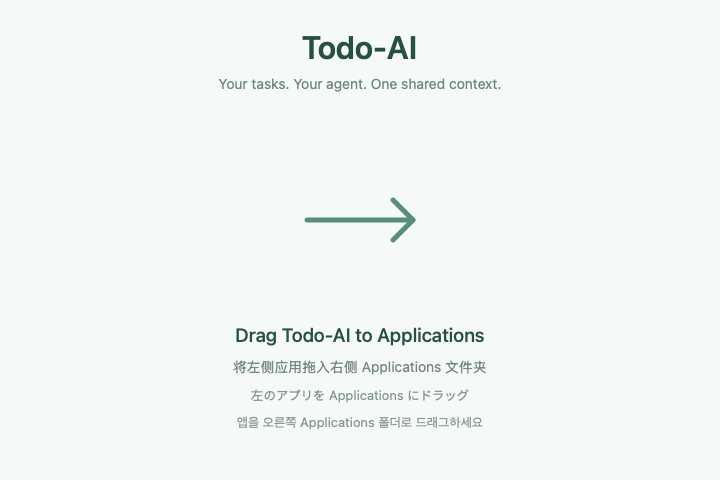
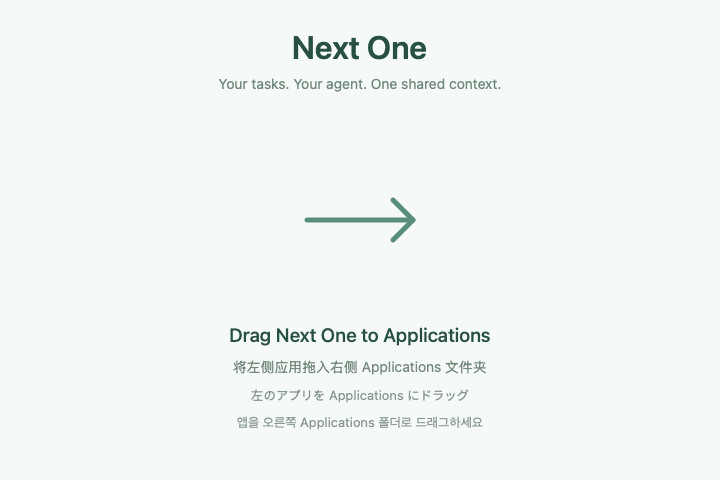
Rename product to Next One and update repository references

Changed region(s): [[0.3972, 0.0625, 0.6111, 0.125], [0.3056, 0.6875, 0.7028, 0.7188]]

diff --git a/Sources/TodoApp/Windows.swift b/Sources/TodoApp/Windows.swift
@@ -36,12 +36,12 @@ final class TaskPanel: NSPanel {
             model.collapsed = Set(p["collapsed"] as? [String] ?? [])
         }
         for window in [panel, ball] { window.isOpaque = false; window.backgroundColor = .clear; window.hasShadow = true; window.hidesOnDeactivate = false; window.isReleasedWhenClosed = false }
-        panel.title = L("Todo-AI 清单"); ball.title = L("Todo-AI 悬浮球")
+        panel.title = L("Next One 清单"); ball.title = L("Next One 悬浮球")
         panel.contentView = TodoHostingView(rootView: ContentView(model: model))
         let ballView = BallView(); ballView.controller = self; ball.contentView = ballView
         model.window = self
         statusItem = NSStatusBar.system.statusItem(withLength: NSStatusItem.squareLength)
-        statusItem.button?.image = NSImage(systemSymbolName: "paperclip", accessibilityDescription: "Todo-AI")
+        statusItem.button?.image = NSImage(systemSymbolName: "paperclip", accessibilityDescription: "Next One")
         statusItem.button?.target = self; statusItem.button?.action = #selector(showMenu)
         refreshLanguage()
         NotificationCenter.default.addObserver(self, selector: #selector(refreshLanguage), name: .todoLanguageChanged, object: nil)
@@ -55,7 +55,7 @@ final class TaskPanel: NSPanel {
     }
     @objc func systemLanguageChanged() { LanguageSettings.shared.refreshSystemLanguage() }
     @objc func refreshLanguage() {
-        panel.title = L("Todo-AI 清单"); ball.title = L("Todo-AI 悬浮球")
+        panel.title = L("Next One 清单"); ball.title = L("Next One 悬浮球")
         (ball.contentView as? BallView)?.refreshLanguage()
         rebuildMainMenu(target: self)
     }
@@ -179,7 +179,7 @@ struct HeaderDragArea: NSViewRepresentable {
     override func keyDown(with event: NSEvent) { if event.keyCode == 49 || event.keyCode == 36 { controller?.toggle() } else { super.keyDown(with: event) } }
     override init(frame frameRect: NSRect) { super.init(frame: frameRect); setAccessibilityElement(true); setAccessibilityRole(.button); refreshLanguage() }
     func refreshLanguage() {
-        setAccessibilityLabel(L("Todo-AI 悬浮球，单击展开或收起，右键解锁"))
+        setAccessibilityLabel(L("Next One 悬浮球，单击展开或收起，右键解锁"))
         toolTip = L("单击展开/收起 · 拖动移动 · 右键解锁")
     }
     required init?(coder: NSCoder) { fatalError() }

diff --git a/Sources/TodoApp/main.swift b/Sources/TodoApp/main.swift
@@ -11,7 +11,7 @@ import TodoCore
             controller = FloatingController(model: model)
             for item in NSApp.mainMenu?.items.first?.submenu?.items ?? [] { item.target = controller }
         }
-        catch { let alert = NSAlert(); alert.messageText = L("Todo-AI 无法打开"); alert.informativeText = LanguageSettings.shared.describe(error); alert.runModal(); NSApp.terminate(nil) }
+        catch { let alert = NSAlert(); alert.messageText = L("Next One 无法打开"); alert.informativeText = LanguageSettings.shared.describe(error); alert.runModal(); NSApp.terminate(nil) }
     }
     func applicationShouldTerminate(_ sender: NSApplication) -> NSApplication.TerminateReply {
         guard controller?.model.saveDraft() != false else { return .terminateCancel }
@@ -30,8 +30,8 @@ app.run()
 
 @MainActor func rebuildMainMenu(target: AnyObject?) {
 let menu = NSMenu()
-let appRoot = NSMenuItem(); let appMenu = NSMenu(title: "TodoAI"); appRoot.submenu = appMenu; menu.addItem(appRoot)
-for (title, action, key) in [(L("找回悬浮球"), "revealBall", "b"), (L("展开或收起清单"), "toggleAction", "t"), (L("设置…"), "settingsAction", ","), (L("退出 TodoAI"), "quitAction", "q")] {
+let appRoot = NSMenuItem(); let appMenu = NSMenu(title: "Next One"); appRoot.submenu = appMenu; menu.addItem(appRoot)
+for (title, action, key) in [(L("找回悬浮球"), "revealBall", "b"), (L("展开或收起清单"), "toggleAction", "t"), (L("设置…"), "settingsAction", ","), (L("退出 Next One"), "quitAction", "q")] {
     let item = appMenu.addItem(withTitle: title, action: Selector(action), keyEquivalent: key)
     item.target = target
 }

diff --git a/scripts/distribution/render-assets.swift b/scripts/distribution/render-assets.swift
@@ -49,12 +49,12 @@ for scale in [1, 2] {
     let suffix = scale == 2 ? "@2x" : ""
     try render("installer-background\(suffix).png",width: 720,height: 480,scale: scale) {
         color(0.95, 0.97, 0.96).setFill(); NSRect(x: 0,y: 0,width: 720,height: 480).fill()
-        text("Todo-AI",top: 32,size: 32,ink: color(0.12,0.25,0.20),weight: .semibold)
+        text("Next One",top: 32,size: 32,ink: color(0.12,0.25,0.20),weight: .semibold)
         text("Your tasks. Your agent. One shared context.",top: 79,size: 14,ink: color(0.36,0.46,0.40))
         let ink = color(0.28,0.49,0.40)
         stroke([NSPoint(x: 307,y: 260),NSPoint(x: 413,y: 260)],width: 5,ink: ink)
         stroke([NSPoint(x: 393,y: 280),NSPoint(x: 413,y: 260),NSPoint(x: 393,y: 240)],width: 5,ink: ink)
-        text("Drag Todo-AI to Applications",top: 328,size: 19,ink: color(0.12,0.25,0.20),weight: .medium)
+        text("Drag Next One to Applications",top: 328,size: 19,ink: color(0.12,0.25,0.20),weight: .medium)
         text("将左侧应用拖入右侧 Applications 文件夹",top: 362,size: 14,ink: color(0.38,0.46,0.41))
         text("左のアプリを Applications にドラッグ",top: 391,size: 13,ink: color(0.45,0.52,0.48))
         text("앱을 오른쪽 Applications 폴더로 드래그하세요",top: 418,size: 13,ink: color(0.45,0.52,0.48))

diff --git a/Sources/TodoApp/CodexIntegration.swift b/Sources/TodoApp/CodexIntegration.swift
@@ -15,7 +15,7 @@ struct CodexIntegration {
         guard fm.isExecutableFile(atPath: sourceCLI.path),
               fm.isReadableFile(atPath: sourceSkill.appendingPathComponent("SKILL.md").path),
               fm.isReadableFile(atPath: sourceSkill.appendingPathComponent("references/cli.md").path) else {
-            throw IntegrationError("应用包缺少接入文件，请重新构建或安装完整的 Todo-AI 应用。")
+            throw IntegrationError("应用包缺少接入文件，请重新构建或安装完整的 Next One 应用。")
         }
         var files: [(String, URL)] = [("bin/todo", sourceCLI)]
         for relative in try fm.subpathsOfDirectory(atPath: sourceSkill.path) {
@@ -76,7 +76,7 @@ struct CodexIntegration {
 
     func installPrompt(dataDirectory: URL, language: String = "zh-Hans") -> String {
         Localization.text("""
-        请在这台 Mac 上为我安装并使用 Todo-AI Skill，让你能通过本地接口读取、新增、修改、完成、可恢复删除及恢复我的待办。
+        请在这台 Mac 上为我安装并使用 Next One Skill，让你能通过本地接口读取、新增、修改、完成、可恢复删除及恢复我的待办。
 
         Skill 源文件：\(skill.path)
         CLI：\(cli.path)

diff --git a/Sources/TodoCLI/main.swift b/Sources/TodoCLI/main.swift
@@ -2,7 +2,7 @@ import Foundation
 import TodoCore
 
 let help = """
-Todo-AI local interface · JSON on stdout, errors on stderr, nonzero exit on failure
+Next One local interface · JSON on stdout, errors on stderr, nonzero exit on failure
 Usage: todo <command> [id] [--field value] [--json]
   board list
   board place --key p:ID|t:ID --expected-revision N --expected-board-revision N --anchor p:ID|t:ID --placement before|after|end

diff --git a/scripts/distribution/verify-mounted.py b/scripts/distribution/verify-mounted.py
@@ -7,7 +7,7 @@ import sys
 from ds_store import DSStore
 
 volume = Path(sys.argv[1])
-app = volume / 'TodoAI.app'
+app = volume / 'Next One.app'
 info = plistlib.loads((app / 'Contents/Info.plist').read_bytes())
 assert info['CFBundleIdentifier'] == 'local.todo-ai.release'
 assert info['CFBundleIconFile'] == 'TodoAI.icns'
@@ -20,7 +20,7 @@ for name in ['SKILL.md', 'references/cli.md']:
 assert not any(p.suffix in {'.sqlite', '.db', '.env'} for p in app.rglob('*'))
 with DSStore.open(str(volume / '.DS_Store'), 'r') as store:
     assert store['.']['icvp']['backgroundType'] == 2
-    assert store['TodoAI.app']['Iloc'][0] < store['Applications']['Iloc'][0]
+    assert store['Next One.app']['Iloc'][0] < store['Applications']['Iloc'][0]
 assert any(volume.glob('.background.*'))
 help_text = subprocess.check_output([str(app / 'Contents/Helpers/todo'), '--help'], text=True)
 assert 'Data: TODO_AI_HOME overrides Application Support/Todo-AI-Release.' in help_text

diff --git a/README.md b/README.md
@@ -1,6 +1,6 @@
 <div align="center">
 
-# Todo-AI
+# Next One
 
 **One task list. Shared context. You and your coding agent.**
 
@@ -14,13 +14,13 @@ macOS 14+ · SwiftUI + AppKit · Local storage · Codex Skill + CLI
 
 **Keep it on top. Tune the transparency. Copy a ready-made setup instruction to your agent.**
 
-## Why Todo-AI?
+## Why Next One?
 
 Coding with AI moves fast. Keeping track of the work often doesn't.
 
 A follow-up gets buried in a chat. A new session needs the same explanation again. Your own checklist and the agent's understanding drift apart. Switching projects makes it harder to remember what was actually finished and what still needs checking.
 
-**Todo-AI gives you and your coding agent one persistent, project-aware task list to maintain together.** You work in a small floating app; the agent reads and updates the same local data through a CLI. Keep the goal, progress, acceptance criteria, and unfinished work attached to the task, ready for the next session to read.
+**Next One gives you and your coding agent one persistent, project-aware task list to maintain together.** You work in a small floating app; the agent reads and updates the same local data through a CLI. Keep the goal, progress, acceptance criteria, and unfinished work attached to the task, ready for the next session to read.
 
 It is built for solo developers, indie makers, and anyone who builds software through conversation with coding agents. The included integration targets **Codex**; other local agents can use the documented CLI, but dedicated integrations have not been verified.
 
@@ -32,8 +32,8 @@ It is built for solo developers, indie makers, and anyone who builds software th
 <th align="left">Leave context with the task</th>
 </tr>
 <tr>
-<td width="50%"><img src="docs/assets/screenshots/en/task-list.jpg" alt="Todo-AI floating list with two project groups, nested tasks, progress and priority labels" width="480"></td>
-<td width="50%"><img src="docs/assets/screenshots/en/task-detail.jpg" alt="Todo-AI task details with a goal, progress notes, next steps, status and subtasks" width="480"></td>
+<td width="50%"><img src="docs/assets/screenshots/en/task-list.jpg" alt="Next One floating list with two project groups, nested tasks, progress and priority labels" width="480"></td>
+<td width="50%"><img src="docs/assets/screenshots/en/task-detail.jpg" alt="Next One task details with a goal, progress notes, next steps, status and subtasks" width="480"></td>
 </tr>
 </table>
 
@@ -52,13 +52,13 @@ Actual macOS app captures with fictional demo tasks. The app supports Simplified
 | **Flexible organization** | Collapse project groups, reorder tasks and groups, move branches, and group unclassified tasks into a project. |
 | **Autosave with conflict handling** | Details save after editing pauses. Different-field changes can merge; conflicting edits keep your draft and ask you to resolve them. |
 | **References and recovery** | Attach images and videos as managed local copies, up to 100 MB per file. Restore deleted tasks and attachments from the trash. |
-| **Local by design** | SwiftUI, AppKit, and system SQLite. No Todo-AI account, cloud backend, or additional AI API key required. |
+| **Local by design** | SwiftUI, AppKit, and system SQLite. No Next One account, cloud backend, or additional AI API key required. |
 
 Lock mode makes the panel ignore mouse input while the floating ball remains available to unlock it. Some cross-app and desktop combinations still need manual validation; see [current limitations](#current-status-and-limitations).
 
 ## Keep your workflow in view
 
-**Keep your next step beside your code.** Use the pin button to keep Todo-AI above ordinary windows on the current desktop. Collapse it to the floating ball when you need more space, then expand it to check progress without hunting through another app.
+**Keep your next step beside your code.** Use the pin button to keep Next One above ordinary windows on the current desktop. Collapse it to the floating ball when you need more space, then expand it to check progress without hunting through another app.
 
 **Choose how much presence it has.** Adjust **Background opacity** in Settings from **30%–100%**. Only the background becomes transparent; text and the floating button remain clear. Pinning and opacity are independent controls, so you can choose the balance that suits your workspace.
 
@@ -75,7 +75,7 @@ Lock mode makes the panel ignore mouse input while the floating ball remains ava
 
 After setting up the integration, try a request like:
 
-> Read this project's Todo-AI tasks. Work on the onboarding flow, record confirmed follow-up work as subtasks, and update progress based on what you actually verify. Preserve my existing notes.
+> Read this project's Next One tasks. Work on the onboarding flow, record confirmed follow-up work as subtasks, and update progress based on what you actually verify. Preserve my existing notes.
 
 The app and agent use one business-rule layer and one local store:
 
@@ -85,7 +85,7 @@ You ─────────── macOS app ──────┐
 Coding agent ── Skill / CLI ────┘
 ```
 
-This is explicit collaboration: Todo-AI does not listen to every chat, run agents in the background, or automatically synchronize remote environments.
+This is explicit collaboration: Next One does not listen to every chat, run agents in the background, or automatically synchronize remote environments.
 
 ## Quick start
 
@@ -94,12 +94,12 @@ This is explicit collaboration: Todo-AI does not listen to every chat, run agent
 Requirements: **macOS 14 or later**, a **Swift 6.0+ toolchain** (such as a compatible Xcode installation), and Python 3 for the packaging script. There are no third-party runtime dependencies.
 
 ```sh
-git clone https://github.com/Lucas-Qinlj/Todo-AI.git
-cd Todo-AI
+git clone https://github.com/Lucas-Qinlj/Next-One.git
+cd Next-One
 ./scripts/run.sh
 ```
 
-This builds and launches `.build/TodoAI.app`, including its CLI and Skill resources. It does not install the app into Applications. This is a local development build, not a signed and notarized distribution.
+This builds and launches `.build/Next One.app`, including its CLI and Skill resources. It does not install the app into Applications. This is a local development build, not a signed and notarized distribution.
 
 - Click the floating ball to show or hide the list; drag it to move the app.
 - Use **+** to add a task, and click a task title to edit its details. Changes autosave.
@@ -109,9 +109,9 @@ This builds and launches `.build/TodoAI.app`, including its CLI and Skill resour
 
 ### Connect Codex
 
-1. Launch Todo-AI and open **Settings → Codex integration**.
+1. Launch Next One and open **Settings → Codex integration**.
 2. Copy the installation instruction and send it in a **local Codex session on the same Mac**. The instruction asks that session to install the bundled Skill, preserve existing customization, and verify the CLI using read-only commands.
-3. Bind your project folder, then ask Codex to read its Todo-AI context. Additional worktree folders must be explicitly bound.
+3. Bind your project folder, then ask Codex to read its Next One context. Additional worktree folders must be explicitly bound.
 
 Copying the instruction alone does not install anything. App startup prepares bundled integration resources inside the app's data directory; it does not modify your global Skills or Codex configuration. Automatic discovery after installation still needs validation in a fresh target session.
 
@@ -123,7 +123,7 @@ Run these from the repository root after building:
 
 ```sh
 .build/debug/todo --help
-.build/debug/todo project bind --path "$PWD" --name Todo-AI
+.build/debug/todo project bind --path "$PWD" --name "Next One"
 .build/debug/todo context --cwd "$PWD" --json
 ```
 
@@ -137,7 +137,7 @@ Updates require the task's latest `revision`. Creation supports stable request k
 - After switching from the older shared-data installer, copy the new Codex setup instruction from Settings to reconnect the agent to the installer’s data. Existing global Skills are not rewritten automatically; use the CLI/data paths in that instruction. `TODO_AI_HOME` explicitly overrides either default.
 - Imported attachments are copied into managed storage. Moving the original file does not remove the imported copy. Video playback depends on the system's default media application.
 - Deleted tasks and attachments remain recoverable; there is no automatic trash cleanup.
-- Todo-AI does not automatically upload your tasks or attachments. Content you explicitly ask a coding agent to read enters that agent's context and is subject to its own data handling.
+- Next One does not automatically upload your tasks or attachments. Content you explicitly ask a coding agent to read enters that agent's context and is subject to its own data handling.
 - To back up, quit the UI and stop CLI writes, then copy the entire data directory, including SQLite/WAL files and attachments.
 
 For an isolated demo or test, use the **same** `TODO_AI_HOME` for both app and CLI:
@@ -160,7 +160,7 @@ python3 scripts/drag-cli-smoke.py
 ./scripts/package-app.sh release
 ```
 
-The release command creates an optimized local app bundle at `.build/TodoAI.app`; it does not sign, notarize, install, or publish it. Keep the complete bundle, including its CLI and Skill resources.
+The release command creates an optimized local app bundle at `.build/Next One.app`; it does not sign, notarize, install, or publish it. Keep the complete bundle, including its CLI and Skill resources.
 
 | Area | Responsibility |
 | --- | --- |

diff --git a/docs/readme/README.zh-CN.md b/docs/readme/README.zh-CN.md
@@ -1,6 +1,6 @@
 <div align="center">
 
-# Todo-AI
+# Next One
 
 **你和 Coding Agent，共同维护一份待办上下文。**
 
@@ -14,13 +14,13 @@ macOS 14+ · SwiftUI + AppKit · 本地存储 · Codex Skill + CLI
 
 **置顶伴随开发，透明度按需调整，现成指令复制给 Agent 即可开始接入。**
 
-## 为什么需要 Todo-AI？
+## 为什么需要 Next One？
 
 和 AI 一起写代码很快，但跟上项目进度并不总是那么容易。
 
 “这个以后再做”埋进了聊天记录；换一个会话，又要重新解释背景；你自己的清单和 Agent 理解的进度逐渐脱节；几个项目来回切换后，很难记清哪些真正完成了，哪些还需要验证。
 
-**Todo-AI 让你与 Coding Agent 共同维护一份持久化、按项目组织的待办。** 你在悬浮应用里查看和编辑，Agent 通过 CLI 读写同一份本地数据。目标、进度、验收条件和剩余工作都留在任务里，下次会话可以直接读取。
+**Next One 让你与 Coding Agent 共同维护一份持久化、按项目组织的待办。** 你在悬浮应用里查看和编辑，Agent 通过 CLI 读写同一份本地数据。目标、进度、验收条件和剩余工作都留在任务里，下次会话可以直接读取。
 
 它面向独立开发者、个人创作者，以及通过与 Coding Agent 对话来构建软件的人。目前内置 **Codex** 接入；其他本地 Agent 可以使用公开的 CLI 接口，但尚未验证专用集成。
 
@@ -49,7 +49,7 @@ macOS 14+ · SwiftUI + AppKit · 本地存储 · Codex Skill + CLI
 | **灵活整理** | 折叠项目组，拖动任务与项目排序，移动整条分支，将未分类待办合并成项目。 |
 | **自动保存与冲突保护** | 停止编辑后自动保存；不同字段的修改可以合并，同字段冲突保留草稿并请求处理。 |
 | **参考资料与恢复** | 图片和视频保存为本地托管副本，单文件最大 100 MB；删除的任务和附件可以恢复。 |
-| **本地优先** | SwiftUI、AppKit 与系统 SQLite，无需 Todo-AI 账号、云端后端或额外 AI API Key。 |
+| **本地优先** | SwiftUI、AppKit 与系统 SQLite，无需 Next One 账号、云端后端或额外 AI API Key。 |
 
 锁定模式让面板忽略鼠标输入，悬浮球仍可用于解锁。部分跨应用与桌面组合还需要人工验证，见下方“当前状态与限制”。
 
@@ -72,7 +72,7 @@ macOS 14+ · SwiftUI + AppKit · 本地存储 · Codex Skill + CLI
 
 完成接入后，可以这样说：
 
-> 先读取当前项目的 Todo-AI 待办，继续开发新用户引导流程。把明确的后续工作记成子任务，根据实际验证结果更新进度，保留我已有的备注。
+> 先读取当前项目的 Next One 待办，继续开发新用户引导流程。把明确的后续工作记成子任务，根据实际验证结果更新进度，保留我已有的备注。
 
 ```text
 你 ───────── macOS 应用 ────┐
@@ -80,7 +80,7 @@ macOS 14+ · SwiftUI + AppKit · 本地存储 · Codex Skill + CLI
 Coding Agent ─ Skill / CLI ─┘
 ```
 
-这是明确指令驱动的协作：Todo-AI 不监听全部聊天，不在后台运行 Agent，也不自动同步远程环境。
+这是明确指令驱动的协作：Next One 不监听全部聊天，不在后台运行 Agent，也不自动同步远程环境。
 
 ## 快速开始
 
@@ -89,12 +89,12 @@ Coding Agent ─ Skill / CLI ─┘
 需要 **macOS 14 或更高版本**、**Swift 6.0+ 工具链**（例如兼容的 Xcode）以及打包脚本使用的 Python 3。没有第三方运行依赖。
 
 ```sh
-git clone https://github.com/Lucas-Qinlj/Todo-AI.git
-cd Todo-AI
+git clone https://github.com/Lucas-Qinlj/Next-One.git
+cd Next-One
 ./scripts/run.sh
 ```
 
-脚本构建并启动 `.build/TodoAI.app`，包含 CLI 与 Skill 资源，不安装到 Applications。这是本地开发构建，尚非签名、公证后的分发版。
+脚本构建并启动 `.build/Next One.app`，包含 CLI 与 Skill 资源，不安装到 Applications。这是本地开发构建，尚非签名、公证后的分发版。
 
 - 单击悬浮球展开或收起，拖动球移动窗口。
 - 点击 **+** 新建任务，点击任务标题编辑详情，修改自动保存。
@@ -104,9 +104,9 @@ cd Todo-AI
 
 ### 接入 Codex
 
-1. 启动 Todo-AI，打开 **设置 → Codex 接入**。
+1. 启动 Next One，打开 **设置 → Codex 接入**。
 2. 复制安装指令，发送到**同一台 Mac 上的本地 Codex 会话**。指令要求该会话安装应用携带的 Skill，保留已有自定义内容，并通过只读命令验证 CLI。
-3. 绑定项目目录后，让 Codex 读取项目的 Todo-AI 上下文；额外 worktree 需要显式绑定。
+3. 绑定项目目录后，让 Codex 读取项目的 Next One 上下文；额外 worktree 需要显式绑定。
 
 仅复制指令不会安装任何内容。应用启动只会在自身数据目录准备接入资源，不修改全局 Skill 或 Codex 配置。安装后的自动发现仍需在新的目标会话中验证。
 
@@ -118,7 +118,7 @@ cd Todo-AI
 
 ```sh
 .build/debug/todo --help
-.build/debug/todo project bind --path "$PWD" --name Todo-AI
+.build/debug/todo project bind --path "$PWD" --name "Next One"
 .build/debug/todo context --cwd "$PWD" --json
 ```
 
@@ -132,7 +132,7 @@ cd Todo-AI
 - 从旧的共用数据库安装包升级后，请从新版设置复制 Codex 接入指令重新接入。已有全局 Skill 不会自动改写，应使用新指令中的 CLI/数据路径。`TODO_AI_HOME` 可显式覆盖两种默认目录。
 - 附件导入时复制到托管目录，原文件移动不会影响副本；视频播放依赖系统默认媒体应用。
 - 已删除的任务和附件可恢复，不自动清空回收站。
-- Todo-AI 不自动上传待办或附件。你明确让 Coding Agent 读取的内容会进入该 Agent 的上下文，并遵循其数据处理方式。
+- Next One 不自动上传待办或附件。你明确让 Coding Agent 读取的内容会进入该 Agent 的上下文，并遵循其数据处理方式。
 - 备份前退出 UI 并停止 CLI 写入，再复制完整数据目录，包括 SQLite/WAL 文件和附件。
 
 演示或测试使用隔离目录，应用与 CLI 必须设置**相同的** `TODO_AI_HOME`：
@@ -155,7 +155,7 @@ python3 scripts/drag-cli-smoke.py
 ./scripts/package-app.sh release
 ```
 
-最后一条命令生成优化后的本地应用包 `.build/TodoAI.app`，不会签名、公证、安装或发布。移动时保留完整应用包及其中的 CLI、Skill 资源。
+最后一条命令生成优化后的本地应用包 `.build/Next One.app`，不会签名、公证、安装或发布。移动时保留完整应用包及其中的 CLI、Skill 资源。
 
 | 模块 | 职责 |
 | --- | --- |

diff --git a/docs/distribution/local-install.md b/docs/distribution/local-install.md
@@ -25,15 +25,15 @@ python3.13 -m venv .local/dmg-tools/venv
 
 仅 DMG 打包依赖 dmgbuild 1.6.7、ds-store 1.3.3 和 mac-alias 2.2.3；应用运行没有新增依赖。锁文件包含版本和 wheel SHA-256，不安装全局包。可用 `TODO_AI_DMG_PYTHON` 指定已准备的同版本 Python 环境。产物位于忽略的 `.local/releases/`，包含 `.dmg` 和 SHA-256 校验文件；同名产物已存在时拒绝覆盖。
 
-脚本复用 `package-app.sh release <临时应用路径>`，不会覆盖 `.build/TodoAI.app` 中正在使用的开发版。DMG 可见内容只有完整 `TodoAI.app` 与指向 `/Applications` 的快捷方式，安装指引直接显示在背景上。dmgbuild 负责 Finder 布局和 Retina 背景元数据；不通过 AppleScript 操控 Finder。安装版使用 local.todo-ai.release 标识和独立默认数据目录，保留 CLI、完整 Skill 与四语资源，不修改真实数据、全局 Skill 或系统设置。
+脚本复用 `package-app.sh release <临时应用路径>`，不会覆盖 `.build/Next One.app` 中正在使用的开发版。DMG 可见内容只有完整 `Next One.app` 与指向 `/Applications` 的快捷方式，安装指引直接显示在背景上。dmgbuild 负责 Finder 布局和 Retina 背景元数据；不通过 AppleScript 操控 Finder。安装版使用 local.todo-ai.release 标识和独立默认数据目录，保留 CLI、完整 Skill 与四语资源，不修改真实数据、全局 Skill 或系统设置。
 
-`package-app.sh` 的第二个参数可省略；原有 debug/release 调用默认仍输出 `.build/TodoAI.app`。CLI/应用核心功能不变。
+`package-app.sh` 的第二个参数可省略；原有 debug/release 调用默认仍输出 `.build/Next One.app`。CLI/应用核心功能不变。
 
 ## 安装与启动
 
 1. 通过悬浮球右键或应用菜单退出已运行的开发版。
-2. 打开 DMG，将 `TodoAI.app` 拖到其中的 `Applications` 快捷方式。
-3. 从“应用程序”打开 TodoAI；单击悬浮球显示清单。
+2. 打开 DMG，将 `Next One.app` 拖到其中的 `Applications` 快捷方式。
+3. 从“应用程序”打开 Next One；单击悬浮球显示清单。
 4. 安装完成后推出磁盘映像。不要直接从只读映像长期运行应用。
 
 安装版使用独立的 `~/Library/Application Support/Todo-AI-Release`，开发版保留 `~/Library/Application Support/Todo-AI`。旧版共用目录中的待办不会导入或删除；首次打开新版安装版时，若其独立目录尚不存在，则显示空清单。以后更新安装版保留其自身数据。同一数据目录不要同时运行两个 UI 实例。安装前如需备份，退出 UI、停止 CLI 写入，再复制完整数据目录。仅移除 Applications 中的应用不会清除待办数据。
@@ -54,7 +54,7 @@ DMG 完整性、完整资源、从映像复制到独立目录后的启动与 CLI
 - 挂载后可运行以下只读检查（路径以实际卷名为准）：
 
 ```sh
-.local/dmg-tools/venv/bin/python scripts/distribution/verify-mounted.py '/Volumes/Todo-AI Installer'
+.local/dmg-tools/venv/bin/python scripts/distribution/verify-mounted.py '/Volumes/Next One Installer'
 ```
 
 脚本检查图标、四语资源、完整 Skill、Applications 链接、背景与图标左右关系，并调用包内 CLI --help。检查不安装应用、不修改真实待办。更换 macOS 或打包依赖后仍需实际 Finder 检查。

diff --git a/docs/spec/2026-10-24/macos-floating-todo.md b/docs/spec/2026-10-24/macos-floating-todo.md
@@ -3,7 +3,7 @@
 - 日期：2026-10-24
 - Feature ID：`macos-floating-todo`
 - 状态：本地实现与已具备条件的验证完成；部分原生交互及新会话验收待补，详见验收报告
-- 适用范围：Todo-AI 首版本地 macOS 应用
+- 适用范围：Next One（原名 Todo-AI）本地 macOS 应用
 - 协作规范：[AGENTS.md](../../../AGENTS.md)
 - 项目状态：[PROJECT_STATUS.md](../../../PROJECT_STATUS.md)
 
@@ -444,3 +444,10 @@ KF 开发执行会话采用第 2 节建议默认值：macOS 14 起，Swift Packa
 ### 2026-10-26：回形针品牌图标
 
 用户选定生成的白色竖向回形针与炭黑背景，并要求替换试用。应用图标和悬浮球复用同一原图，分别使用圆角方形与圆形裁切；菜单栏改用系统单色回形针，锁定时保留锁标识。仅视觉调整，名称、交互及业务规则不变。debug 打包通过，已替换本机应用并观察实际悬浮球；未重新制作 DMG 或对外发布。
+
+### 2026-10-26：产品正式名称 Next One
+
+- 用户确认软件名称改为 **Next One**，GitHub 仓库使用不含空格的 **Next-One**。白色竖向回形针与炭黑底保持不变。
+- 应用包名为 `Next One.app`，显示名称、窗口/菜单、四语文案、CLI 帮助与当前 README 使用新名称；安装背景和后续 DMG 打包同步。
+- 为保持既有任务和接入兼容，bundle ID、Swift 模块/可执行文件、`todo` CLI、`todo-ai` Skill、`TODO_AI_HOME` 与 `Todo-AI` / `Todo-AI-Release` 数据目录保持原名。此次不迁移数据、不改全局 Skill、不重命名本地源码目录或历史记录。
+- 验收：构建打包与本地化/数据目录测试通过，真实应用显示新名称并沿用原数据；远端仓库改名后核对新 URL 与本地 origin。
